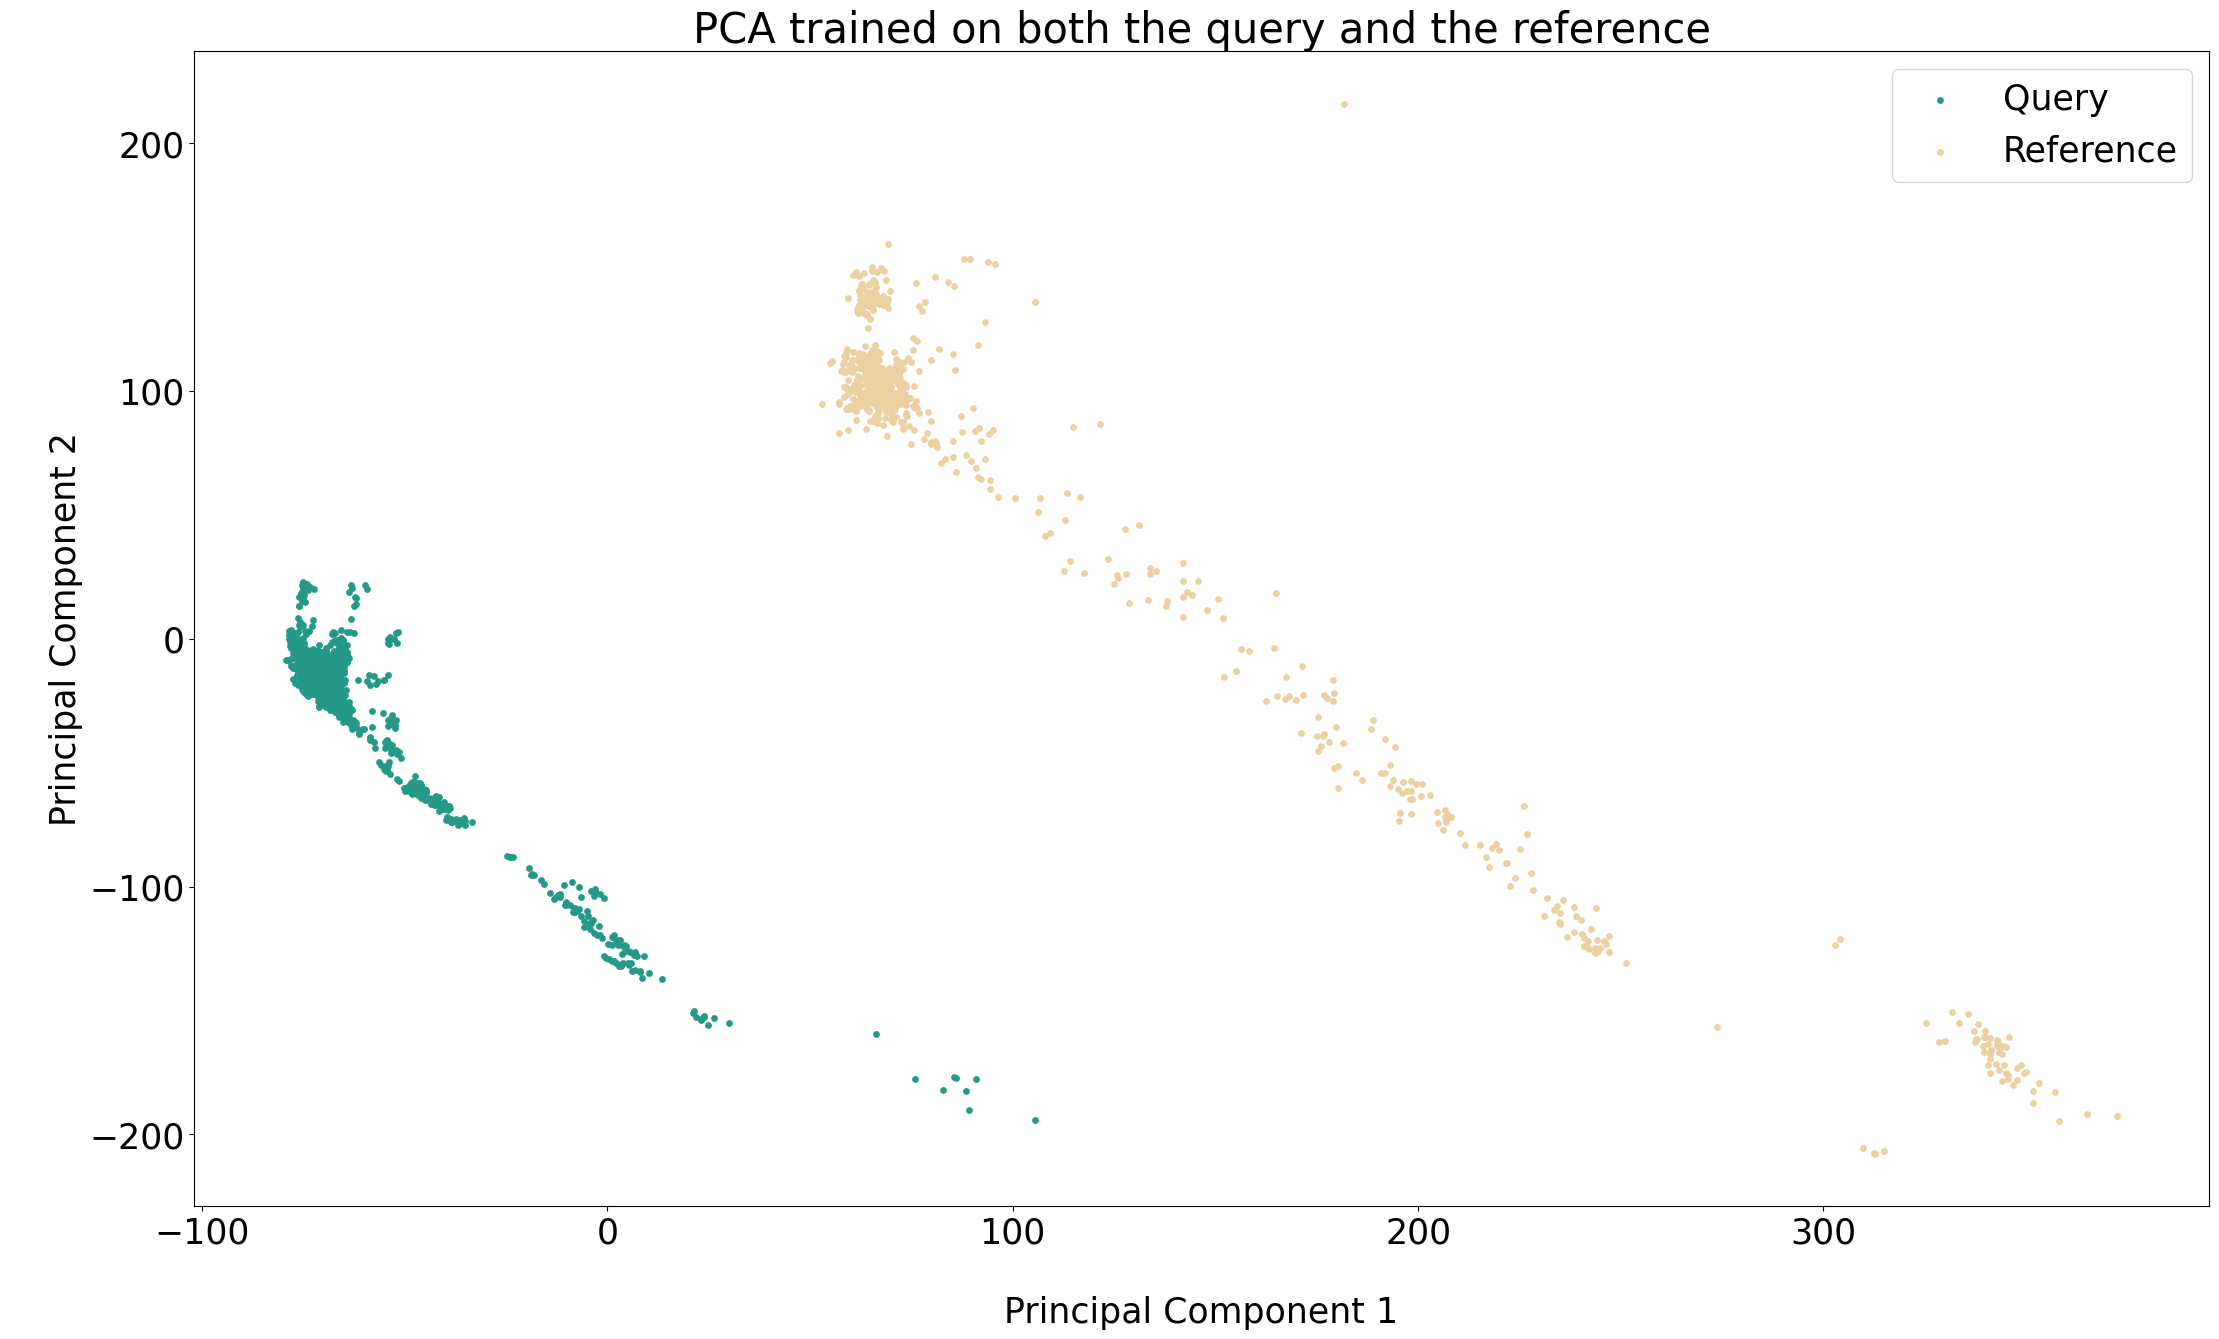
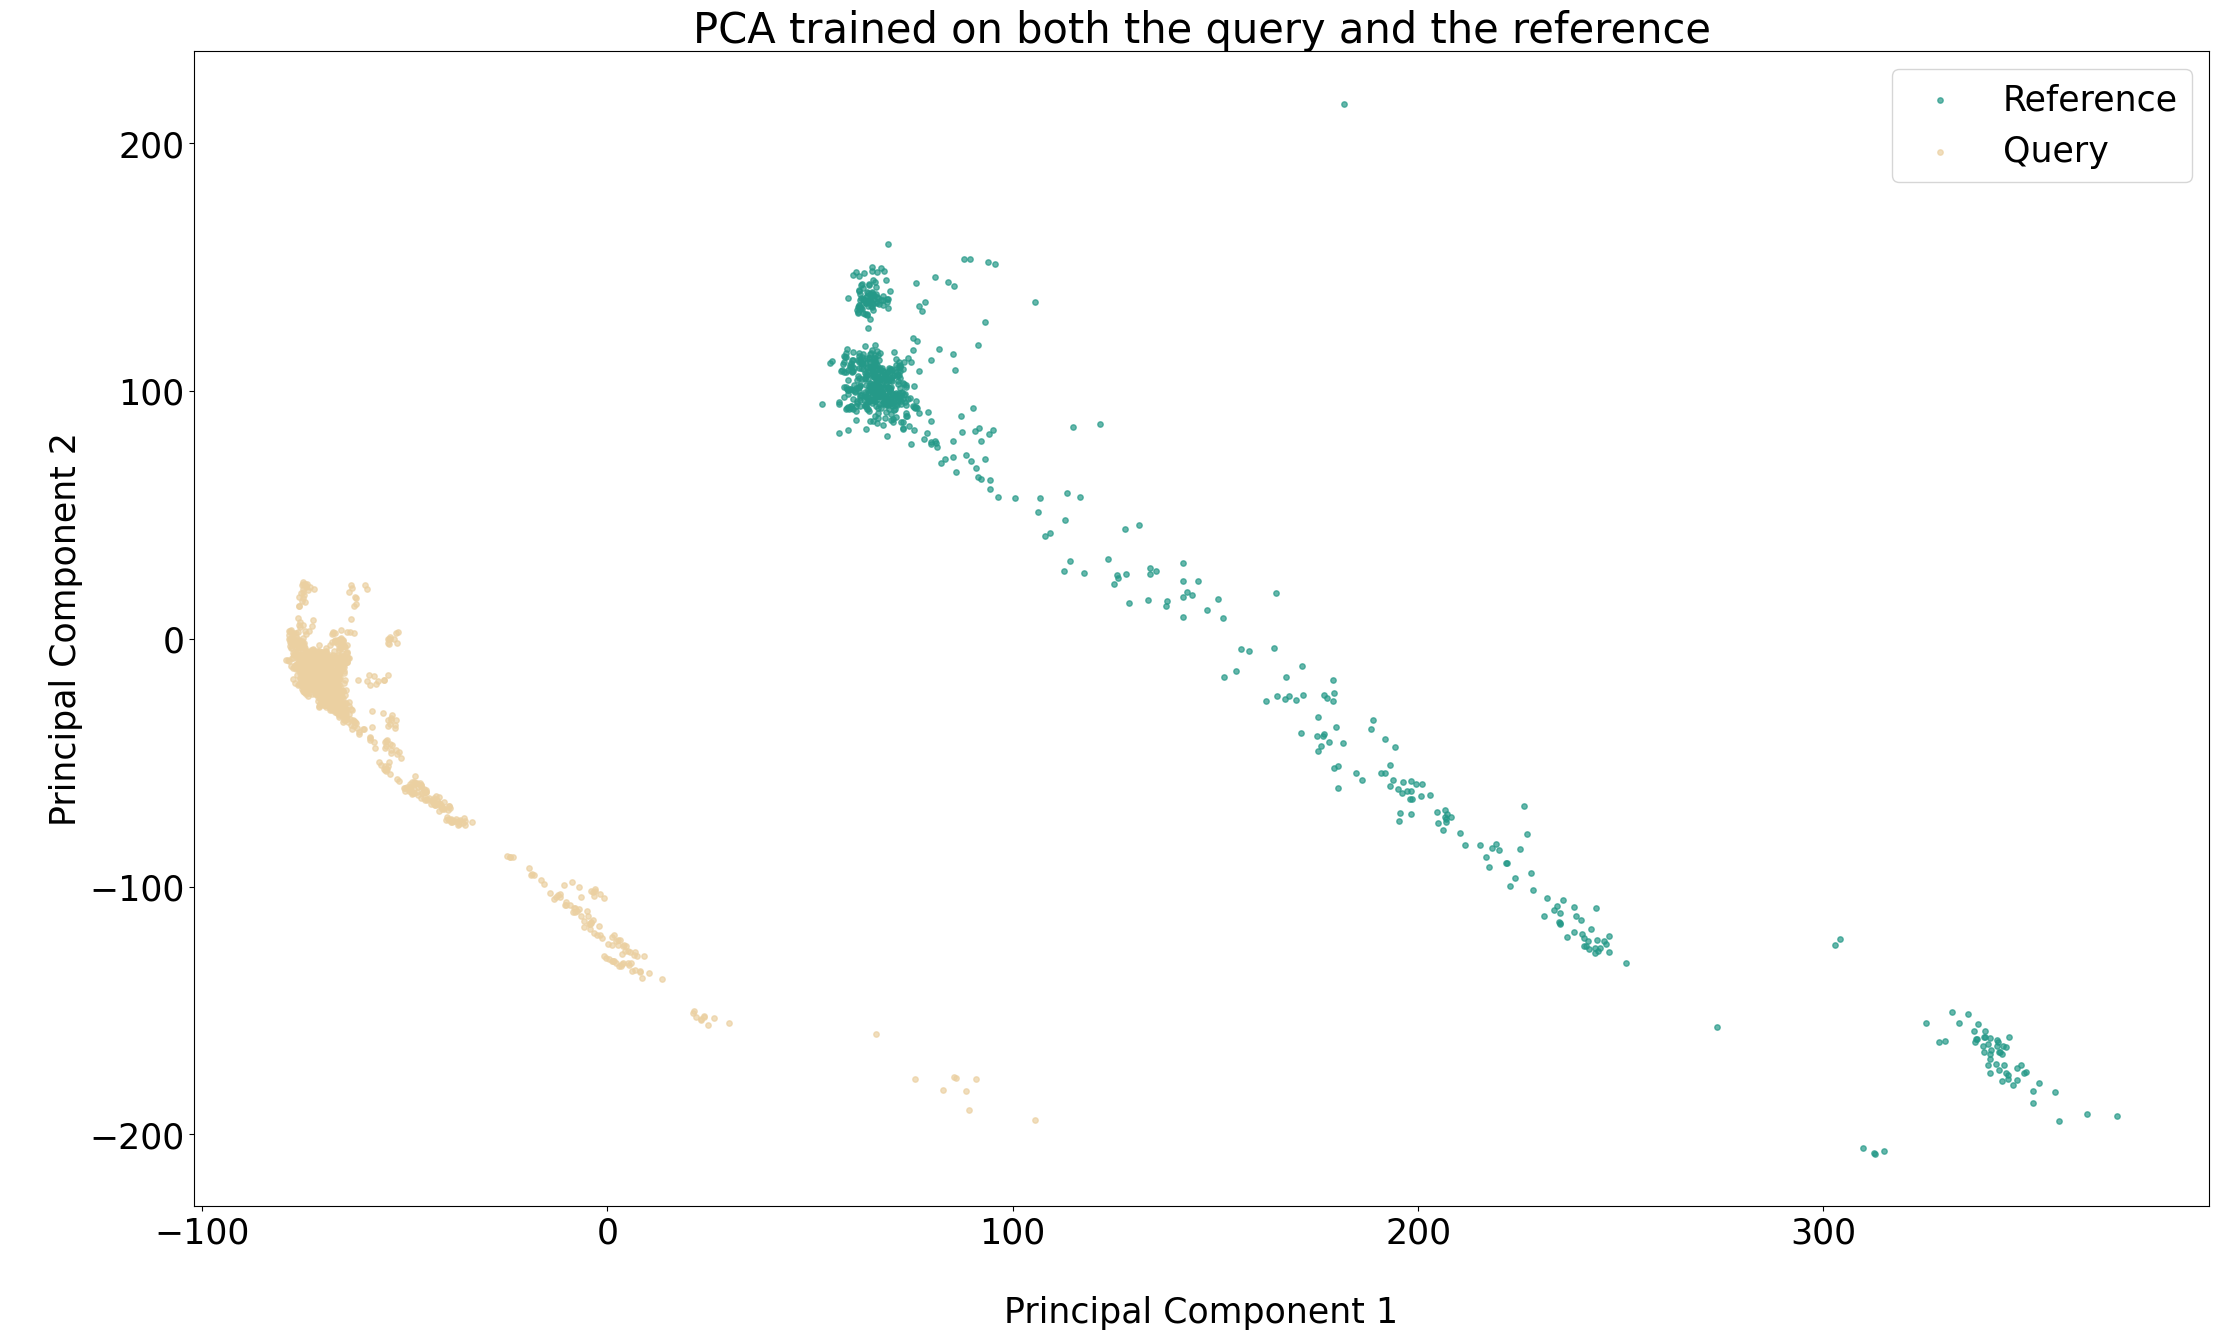
Improved pca-plot README + code

diff --git a/utils/plot_utils.py b/utils/plot_utils.py
@@ -109,7 +109,7 @@ def PCA_trained_and_projected_on_query(query_snps: np.array, plot_dict: Dict, ou
 
     # Define output name to .png image with SNP means plot 
     # The .png image will have the name 'trained_query.png'
-    output_name = f'trained_query.png'
+    output_name = 'trained_query.png'
     
     # Save figure in output folder
     logger.debug(f'Saving plot with SNP means in {output_folder}{output_name}.')
@@ -160,11 +160,13 @@ def PCA_trained_on_query_projected_on_both(query_snps: np.array, reference_snps:
     plt.rcParams['figure.facecolor'] = 'white'
     plt.rcParams.update({'font.size': plot_dict['fontsize']})
     
-    # Plot the first two components for the query
-    plt.scatter(princ_query[:,0], princ_query[:,1], s=plot_dict['s'], c=plot_dict["color_query"], label="Query")
+    # Plot the reference 2D PCA points
+    plt.scatter(princ_reference[:,0], princ_reference[:,1], s=plot_dict['s'], 
+                alpha=plot_dict['alpha'], c=plot_dict["color_reference"], label="Reference")
     
-    # Plot the first two components for the reference
-    plt.scatter(princ_reference[:,0], princ_reference[:,1], s=plot_dict['s'], c=plot_dict["color_reference"], label="Reference")
+    # Plot the query 2D PCA points
+    plt.scatter(princ_query[:,0], princ_query[:,1], s=plot_dict['s'], 
+                alpha=plot_dict['alpha'], c=plot_dict["color_query"], label="Query")
     
     # Define plot title, x and y axis, and legend
     plt.title("PCA trained on the query")
@@ -174,7 +176,7 @@ def PCA_trained_on_query_projected_on_both(query_snps: np.array, reference_snps:
 
     # Define output name to .png image with SNP means plot 
     # The .png image will have the name 'trained_query_projected_both.png'
-    output_name = f'trained_query_projected_both.png'
+    output_name = 'trained_query_projected_both.png'
     
     # Save figure in output folder
     logger.debug(f'Saving plot with SNP means in {output_folder}{output_name}.')
@@ -220,13 +222,13 @@ def PCA_trained_and_projected_on_both(query_snps: np.array, reference_snps: np.a
     plt.rcParams['figure.facecolor'] = 'white'
     plt.rcParams.update({'font.size': plot_dict['fontsize']})
     
-    # Plot the query 2D PCA points
-    plt.scatter(princ_comp_concat[:query_snps.shape[0],0], princ_comp_concat[:query_snps.shape[0],1], 
-                s=plot_dict['s'], c=plot_dict["color_query"], label="Query")
-    
     # Plot the reference 2D PCA points
     plt.scatter(princ_comp_concat[query_snps.shape[0]:,0], princ_comp_concat[query_snps.shape[0]:,1], 
-                s=plot_dict['s'], c=plot_dict["color_reference"], label="Reference")
+                s=plot_dict['s'], alpha=plot_dict['alpha'], c=plot_dict["color_reference"], label="Reference")
+    
+    # Plot the query 2D PCA points
+    plt.scatter(princ_comp_concat[:query_snps.shape[0],0], princ_comp_concat[:query_snps.shape[0],1], 
+                s=plot_dict['s'], alpha=plot_dict['alpha'], c=plot_dict["color_query"], label="Query")
     
     # Define plot title, x and y axis, and legend
     plt.title("PCA trained on both the query and the reference")
@@ -236,7 +238,7 @@ def PCA_trained_and_projected_on_both(query_snps: np.array, reference_snps: np.a
 
     # Define output name to .png image with SNP means plot 
     # The .png image will have the name 'trained_both_projected_both.png'
-    output_name = f'trained_both_projected_both.png'
+    output_name = 'trained_both_projected_both.png'
     
     # Save figure in output folder
     logger.debug(f'Saving plot with SNP means in {output_folder}{output_name}.')

diff --git a/utils/misc.py b/utils/misc.py
@@ -128,9 +128,10 @@ def define_parser() -> argparse.ArgumentParser:
     partition_parser.add_argument('-w', '--figure-width', required=False, default=26, help='Figure width of plot.')
     partition_parser.add_argument('-i', '--figure-height', required=False, default=15, help='Figure height of plot.')
     partition_parser.add_argument('-s', '--size-points', required=False, default=15, help='Size of points in plot.')
-    partition_parser.add_argument('-cq', '--color-points-query', required=False, default='#259988', 
+    partition_parser.add_argument('-a', '--alpha', required=False, default=0.7, help='Transparency of points in plot.')
+    partition_parser.add_argument('-cq', '--color-points-query', required=False, default='#EBD0A1', 
                                   help='Color of query points in plot.')
-    partition_parser.add_argument('-cr', '--color-points-reference', required=False, default='#EBD0A1', 
+    partition_parser.add_argument('-cr', '--color-points-reference', required=False, default='#259988', 
                                   help='Color of reference points in plot.')
     partition_parser.add_argument('-d', '--debug', required=False, help='Path to .log/.txt file to store info/debug messages.')
 
@@ -371,6 +372,7 @@ def define_plot_configuration(args: argparse.Namespace) -> Dict:
                      "fig_width": args.figure_width,
                      "fig_height": args.figure_height, 
                      "s": args.size_points,
+                     "alpha" : args.alpha,
                      "color_query": args.color_points_query,
                      "color_reference": args.color_points_reference}
     

diff --git a/evaluation/evaluation_plots.py b/evaluation/evaluation_plots.py
@@ -69,7 +69,7 @@ def plot_snp_means(query_paths: List[str], reference_paths: List[str], plot_dict
         chrom = check_chromosome(query, reference, single=False)
         
         # Filter the reference and the query to only contain the common markers
-        if type(chrom) is not list: logger.debug(f'Searching common markers in chromosome {chrom}...')
+        if not isinstance(chrom, list): logger.debug(f'Searching common markers in chromosome {chrom}...')
         else: logger.debug(f'Searching common markers in all chromosomes...')
         reference, query, _, _ = keep_common_markers_several_chr(reference, query, logger)
         
@@ -109,7 +109,7 @@ def plot_snp_means(query_paths: List[str], reference_paths: List[str], plot_dict
     # Plot the SNP means for the common markers between the query and the reference
     snp_means_plot(all_query_snps, all_reference_snps, plot_dict, output_folder, logger)
 
-    
+
 def plot_pca(query_paths: List[str], reference_paths: List[str], train_query: bool, 
              PCA_plot_dict: Dict, output_folder: str, logger: logging.Logger) -> None:
     """
@@ -196,6 +196,9 @@ def plot_pca(query_paths: List[str], reference_paths: List[str], train_query: bo
                 all_reference_snps = np.concatenate((all_reference_snps, reference_snps), axis=1)
         
         i += 1
+        
+    logger.info(f'{all_query_snps.shape[1]} common SNPs in total between the query and the '\
+                'reference datasets.')
         
     # Plot PCA
     if reference_paths is None:

diff --git a/utils/vcf_clean.py b/utils/vcf_clean.py
@@ -476,7 +476,8 @@ def remove_snps_different_means(reference: dict, query: dict, threshold: float, 
     idx_1_to_remove = np.array(idxs_reference)[abs(mean_1 - mean_2) > threshold]
     idx_2_to_remove = np.array(idxs_query)[abs(mean_1 - mean_2) > threshold]
     
-    assert len(idx_1_to_remove) == len(idx_2_to_remove) == sum(abs(mean_1 - mean_2) > threshold), 'The amount of indexes removed in each dataset is not the same. There has been an error.'
+    assert len(idx_1_to_remove) == len(idx_2_to_remove) == sum(abs(mean_1 - mean_2) > threshold),\
+    'The amount of indexes removed in each dataset is not the same. There has been an error.'
     
     track('Found {} SNPs with a mean absolute difference higher than {}'.format(sum(abs(mean_1 - mean_2) > threshold), threshold), track_name)
         
@@ -528,4 +529,4 @@ def count_snps_same_position(reference, query, dataset_name_1, dataset_name_2, l
             index1 += 1
             index2 += 1
     
-    track('--> {} SNPs found at the same position between {} and {} datasets'.format(n_coincidences, dataset_name_1, dataset_name_2), track_name)
+    logger.debug('--> {} SNPs found at the same position between the reference and the query')

diff --git a/readmes/README_11_evaluate_with_pca_plots.md b/readmes/README_11_evaluate_with_pca_plots.md
@@ -6,11 +6,15 @@ PCA can also be used as a tool to visualize how samples are distributed. Usually
 
 MergeGenome plot-pca command produces a scatter plot with the two first PCA components. The provided .vcf files can contain data for a single or multiple chromosomes. Either way, the chromosomes need to appear in the same order. If only data from the query is provided, the PCA is trained and projected on the query SNPs. If both data from the query and the reference are provided, the PCA is trained and projected on the common markers (i.e., SNPs at the same CHROM, POS, REF, and ALT) between both datasets, except when `--train_query` is called, then the data is only trained on the query and projected on both datasets.
 
-Figure 1 shows an output example of MergeGenome plot-pca command. We can observe 
+Figure 2 shows an output example of MergeGenome plot-pca command, in which the PCA has been trained on the common markers from the query and projected on both the query and the reference datasets. We can observe that the PCA points from the query do not fall into the same space as the PCA points from the reference, suggesting the data have different distributions between sources. However, after following MergeGenome preprocessing steps, the differences in the DNA sequences between both sources are not noticaeble, as can be seen in Figure 3. This observation supports the need for properly preprocessing genomic sequences prior to merging.
 
-![Figure 1. SNP means comparison](https://github.com/AI-sandbox/merge-vcf-files/blob/main/figures/snp_means_reference_and_query.png)
+![Figure 2. PCA trained on the query and projected on both the query and the reference](https://github.com/AI-sandbox/merge-vcf-files/blob/main/figures/trained_both_projected_both.png)
 
-*Figure 1. SNP means comparison for the common markers betwee a query and a reference datasets.*
+*Figure 2. PCA trained on the common markers from the query and projected on both the query and the reference datasets.*
+
+![Figure 3. PCA trained on the query and projected on both the query and the reference after MergeGenome Preprocessing](https://github.com/AI-sandbox/merge-vcf-files/blob/main/figures/trained_both_projected_both_after_preprocessing.png)
+
+*Figure 3. PCA trained on the common markers from the query and projected on both the query and the reference datasets after following MergeGenome preprocessing steps.*
 
 ## Usage
 
@@ -28,9 +32,15 @@ Input flags include:
 * -w, --figure-width INT, Figure width of plot (optional). Default=26.
 * -i, --figure-height INT, Figure height of plot (optional). Default=15.
 * -s, --size-points INT, Size of points in plot (optional). Default=15.
-* -cq, --color-points-query STR, Color of query points in the plot (optional). Default=#259988.
-* -cr, --color-points-reference STR, Color of reference points in the plot (optional). Default=#EBD0A1.
+* -a, --alpha, FLOAT, Transparency of points in plot (optional). Default=0.7.
+* -cq, --color-points-query STR, Color of query points in the plot (optional). Default=#EBD0A1.
+* -cr, --color-points-reference STR, Color of reference points in the plot (optional). Default=#259988.
 * -d, --debug PATH, Path to .log/.txt file to store info/debug messages (optional).
+
+**Output**
+
+* A .png image with the first PCA components. The .png image will have the name 'trained_query' if only the query is provided, 'trained_both_projected_both' if both the query and the reference are provided and 'trained_query_projected_both.png' if both datasets are provided and `--train_query` flag is True.
+* If --debug, a .log or .txt file with information regarding the dimensions of the data (number of samples and number of SNPs), the chromosomes in each file, and the amount of common markers found.
 
 `Examples`
 
